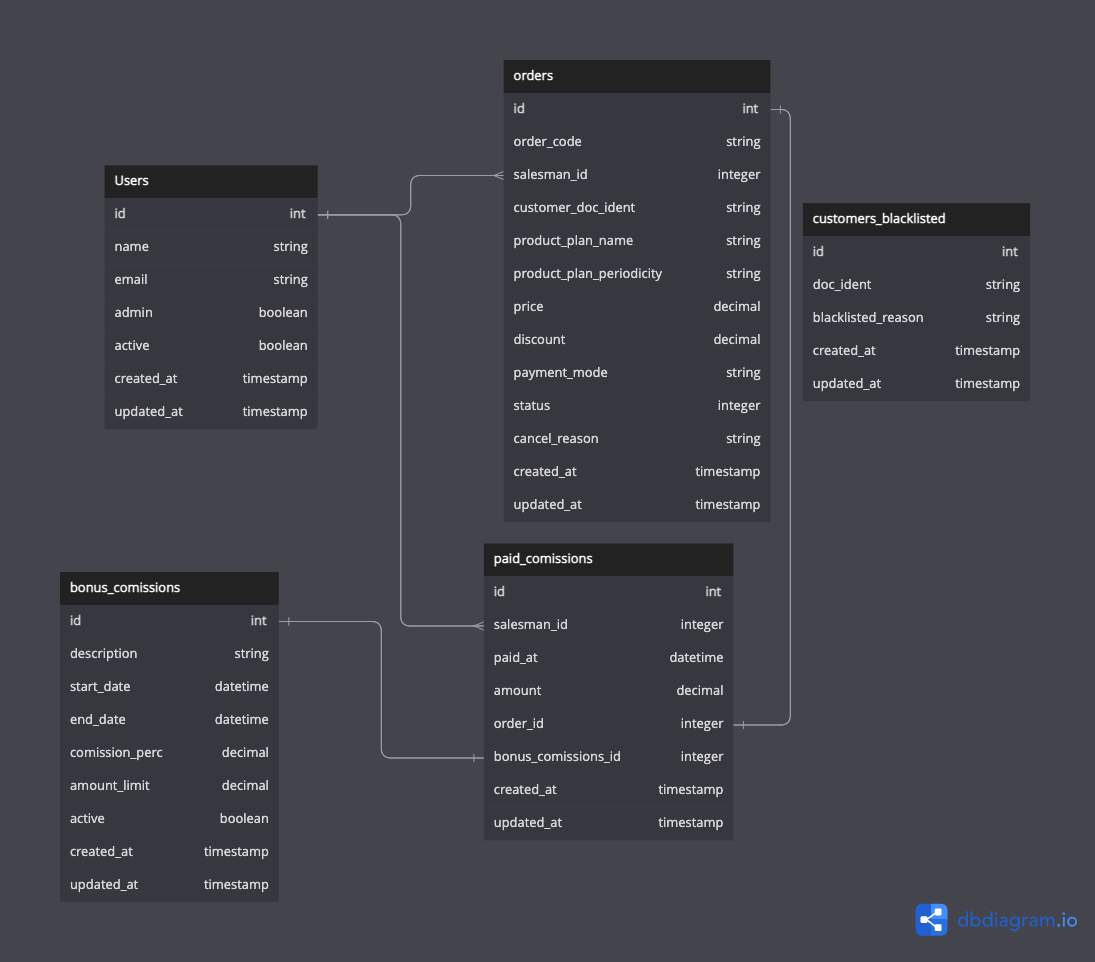
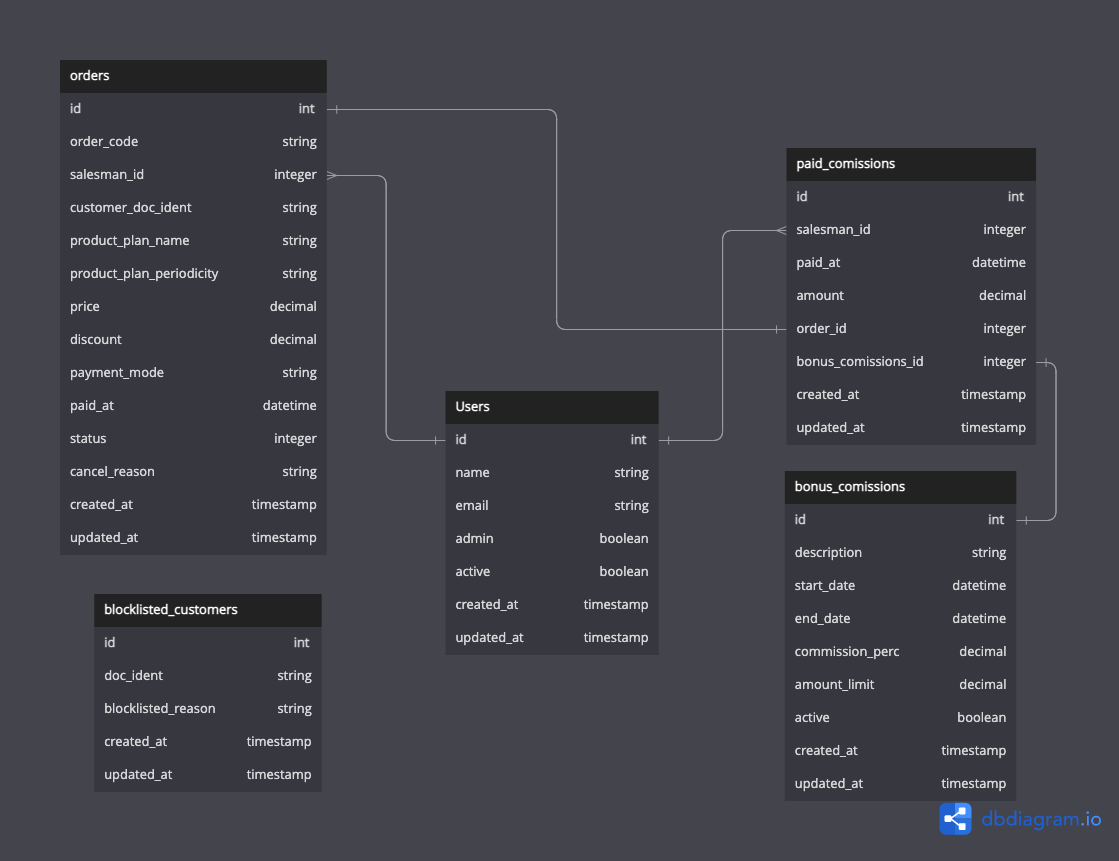
[FEAT] Calcula comissao do vendedor

diff --git a/spec/models/paid_commission_spec.rb b/spec/models/paid_commission_spec.rb
@@ -1,5 +1,106 @@
 require 'rails_helper'
 
 RSpec.describe PaidCommission, type: :model do
-  # pending "add some examples to (or delete) #{__FILE__}"
+  describe '#pay_comission_from_order_code' do
+    include ActiveSupport::Testing::TimeHelpers
+
+    it 'should create a record with the right commission(bonus extra)' do
+      travel_to(Time.new(2023, 3, 5, 14, 35, 0, '+00:00')) do
+        allow(SecureRandom).to receive(:alphanumeric).and_return('ABCDEF1020')
+
+        salesman = create(:user)
+
+        order = create(:order, price: 150.00, paid_at: '2023-03-04', discount: 50.00, salesman:)
+
+        bonus_especial = BonusCommission.create({ description: 'Bonus Especial', start_date: '2023-03-01',
+                                                  end_date: '2023-03-05', commission_perc: '5', amount_limit: 100 })
+
+        BonusCommission.create({ description: 'Bonus Base', start_date: '2023-01-01',
+                                 end_date: '2023-12-31', commission_perc: '1', amount_limit: 0 })
+
+        PaidCommission.pay_commission_from_order_code('ABCDEF1020')
+
+        comissions = PaidCommission.all
+
+        expect(comissions.count).to eq(1)
+        expect(comissions[0].amount).to eq((150 - 50) * 0.05)
+        expect(comissions[0].paid_at.to_s).to eq('2023-03-05 14:35:00 UTC')
+        expect(comissions[0].salesman).to eq(salesman)
+        expect(comissions[0].order).to eq(order)
+        expect(comissions[0].bonus_commission).to eq(bonus_especial)
+      end
+    end
+
+    it 'tests the cap limit for bonuses' do
+      travel_to(Time.new(2023, 3, 5, 14, 35, 0, '+00:00')) do
+        allow(SecureRandom).to receive(:alphanumeric).and_return('ABCDEF1020')
+
+        salesman = create(:user)
+
+        order = create(:order, price: 15_000.00, paid_at: '2023-03-04', salesman:)
+
+        bonus_especial = BonusCommission.create({ description: 'Bonus Especial', start_date: '2023-03-01',
+                                                  end_date: '2023-03-05', commission_perc: '5', amount_limit: 100 })
+
+        BonusCommission.create({ description: 'Bonus Base', start_date: '2023-01-01',
+                                 end_date: '2023-12-31', commission_perc: '1', amount_limit: 0 })
+
+        PaidCommission.pay_commission_from_order_code('ABCDEF1020')
+
+        comissions = PaidCommission.all
+
+        expect(comissions.count).to eq(1)
+        expect(comissions[0].amount).to eq(100)
+        expect(comissions[0].paid_at.to_s).to eq('2023-03-05 14:35:00 UTC')
+        expect(comissions[0].salesman).to eq(salesman)
+        expect(comissions[0].order).to eq(order)
+        expect(comissions[0].bonus_commission).to eq(bonus_especial)
+      end
+    end
+
+    it 'should create a record with the right commission(base commision)' do
+      travel_to(Time.new(2023, 3, 5, 14, 35, 0, '+00:00')) do
+        allow(SecureRandom).to receive(:alphanumeric).and_return('ABCDEF1020')
+
+        salesman = create(:user)
+
+        order = create(:order, price: 150.00, paid_at: '2023-05-04', discount: 50.00, salesman:)
+
+        BonusCommission.create({ description: 'Bonus Especial', start_date: '2023-03-01',
+                                 end_date: '2023-03-05', commission_perc: '5', amount_limit: 100 })
+
+        bonus_base = BonusCommission.create({ description: 'Bonus Base', start_date: '2023-01-01',
+                                              end_date: '2023-12-31', commission_perc: '1', amount_limit: 0 })
+
+        PaidCommission.pay_commission_from_order_code('ABCDEF1020')
+
+        comissions = PaidCommission.all
+
+        expect(comissions.count).to eq(1)
+        expect(comissions[0].amount).to eq((150 - 50) * 0.01)
+        expect(comissions[0].paid_at.to_s).to eq('2023-03-05 14:35:00 UTC')
+        expect(comissions[0].salesman).to eq(salesman)
+        expect(comissions[0].order).to eq(order)
+        expect(comissions[0].bonus_commission).to eq(bonus_base)
+      end
+    end
+
+    it 'should raise exception for invalid order code' do
+      expect { PaidCommission.pay_commission_from_order_code('XYZ') }.to raise_error(StandardError)
+    end
+
+    it 'should raise exception for DB without bonuses for the period of the sale' do
+      allow(SecureRandom).to receive(:alphanumeric).and_return('ABCDEF1020')
+
+      salesman = create(:user)
+
+      create(:order, price: 150.00, paid_at: '2023-12-04', discount: 50.00, salesman:)
+
+      BonusCommission.create({ description: 'Bonus Base', start_date: '2023-01-01',
+                               end_date: '2023-10-31', commission_perc: '1', amount_limit: 0 })
+
+      expect { PaidCommission.pay_commission_from_order_code('ABCDEF1020') }.to raise_error(StandardError)
+      expect(PaidCommission.count).to eq(0)
+    end
+  end
 end

diff --git a/db/schema.rb b/db/schema.rb
@@ -10,7 +10,7 @@
 #
 # It's strongly recommended that you check this file into your version control system.
 
-ActiveRecord::Schema[7.0].define(version: 2023_03_02_192626) do
+ActiveRecord::Schema[7.0].define(version: 2023_03_03_132353) do
   create_table "active_storage_attachments", force: :cascade do |t|
     t.string "name", null: false
     t.string "record_type", null: false
@@ -60,7 +60,7 @@ ActiveRecord::Schema[7.0].define(version: 2023_03_02_192626) do
 
   create_table "orders", force: :cascade do |t|
     t.decimal "price", precision: 8, scale: 2, null: false
-    t.decimal "discount", precision: 8, scale: 2
+    t.decimal "discount", precision: 8, scale: 2, default: "0.0"
     t.string "payment_mode"
     t.integer "status", default: 0
     t.string "cancel_reason"
@@ -71,6 +71,7 @@ ActiveRecord::Schema[7.0].define(version: 2023_03_02_192626) do
     t.string "product_plan_name", null: false
     t.string "product_plan_periodicity", null: false
     t.string "customer_doc_ident", null: false
+    t.datetime "paid_at"
     t.index ["salesman_id"], name: "index_orders_on_salesman_id"
   end
 
@@ -81,7 +82,9 @@ ActiveRecord::Schema[7.0].define(version: 2023_03_02_192626) do
     t.datetime "created_at", null: false
     t.datetime "updated_at", null: false
     t.integer "salesman_id"
+    t.integer "order_id", null: false
     t.index ["bonus_commission_id"], name: "index_paid_commissions_on_bonus_commission_id"
+    t.index ["order_id"], name: "index_paid_commissions_on_order_id"
     t.index ["salesman_id"], name: "index_paid_commissions_on_salesman_id"
   end
 
@@ -104,5 +107,6 @@ ActiveRecord::Schema[7.0].define(version: 2023_03_02_192626) do
   add_foreign_key "active_storage_variant_records", "active_storage_blobs", column: "blob_id"
   add_foreign_key "orders", "users", column: "salesman_id"
   add_foreign_key "paid_commissions", "bonus_commissions"
+  add_foreign_key "paid_commissions", "orders"
   add_foreign_key "paid_commissions", "users", column: "salesman_id"
 end

diff --git a/app/models/paid_commission.rb b/app/models/paid_commission.rb
@@ -1,4 +1,43 @@
 class PaidCommission < ApplicationRecord
   belongs_to :bonus_commission
   belongs_to :salesman, class_name: 'User'
+  belongs_to :order
+
+  validates :paid_at, :amount, presence: true
+  validates :amount, numericality: { greater_than: 0 }
+
+  class << self
+    def pay_commission_from_order_code(order_code)
+      order = Order.find_by({ order_code: })
+
+      raise StandardError, 'Código do pedido não encontrado' if order.nil?
+
+      salesman = order.salesman
+
+      total_order = order.price - order.discount
+      current_bonus = current_bonus(order.paid_at)
+      comission_amount = calculate_commission(current_bonus, total_order)
+
+      PaidCommission.create!({ paid_at: Time.current, amount: comission_amount,
+                               bonus_commission: current_bonus, salesman:, order: })
+    end
+
+    private
+
+    def calculate_commission(bonus, order_total)
+      comission = ((bonus.commission_perc / 100.0) * order_total).round(2)
+      bonus.cap_limit? ? [bonus.amount_limit, comission].min : comission
+    end
+
+    def current_bonus(order_date)
+      bonuses = BonusCommission.active
+                               .where('start_date <= ?', order_date)
+                               .where('end_date >= ?', order_date)
+                               .order(commission_perc: :desc)
+                               .take(1)
+      raise StandardError, 'O sistema precisa de ter pelo menos o bonus padrão de 1% cadastrado' if bonuses.count.zero?
+
+      bonuses[0]
+    end
+  end
 end

diff --git a/db/seeds.rb b/db/seeds.rb
@@ -27,3 +27,9 @@ Order.create!(salesman_id: selesman_two.id, customer_doc_ident: '32100022201', p
               product_plan_periodicity: 'Anual', price: 70.00)
 
 BlocklistedCustomer.create!(doc_ident: '18422142414', blocklisted_reason: 'Processo judicial em andamento.')
+
+BonusCommission.create({ description: 'Bonus Especial', start_date: '2023-03-01',
+                         end_date: '2023-03-05', commission_perc: '5', amount_limit: 100 })
+
+BonusCommission.create({ description: 'Bonus Base', start_date: '2023-01-01',
+                         end_date: '2023-12-31', commission_perc: '1', amount_limit: 0 })

diff --git a/app/models/bonus_commission.rb b/app/models/bonus_commission.rb
@@ -1,2 +1,8 @@
 class BonusCommission < ApplicationRecord
+  scope :active, -> { where(active: true) }
+
+  def cap_limit?
+    # Regra de negócio: Se o amount limit for 0 não tem limite para o bonus
+    amount_limit.positive?
+  end
 end

diff --git a/app/models/order.rb b/app/models/order.rb
@@ -2,6 +2,7 @@ require 'securerandom'
 
 class Order < ApplicationRecord
   belongs_to :salesman, class_name: 'User'
+  has_one :paid_commission, dependent: :destroy
 
   enum status: { pending: 0, paid: 3, cancelled: 5 }
 

diff --git a/db/migrate/20230303124514_create_paidat_field_and_set_discount_default.rb b/db/migrate/20230303124514_create_paidat_field_and_set_discount_default.rb
@@ -1,0 +1,6 @@
+class CreatePaidatFieldAndSetDiscountDefault < ActiveRecord::Migration[7.0]
+  def change
+    add_column :orders, :paid_at, :datetime, null: true
+    change_column_default :orders, :discount, 0
+  end
+end

diff --git a/db/migrate/20230303132353_add_order_to_paid_commissions.rb b/db/migrate/20230303132353_add_order_to_paid_commissions.rb
@@ -1,0 +1,5 @@
+class AddOrderToPaidCommissions < ActiveRecord::Migration[7.0]
+  def change
+    add_reference :paid_commissions, :order, null: false, foreign_key: true
+  end
+end

diff --git a/spec/factories/emails.rb b/spec/factories/emails.rb
@@ -1,5 +1,5 @@
 FactoryBot.define do
   sequence :email do |n|
-    "user-#{n}@exemplo.com.br"
+    "user-#{n}@locaweb.com.br"
   end
 end
